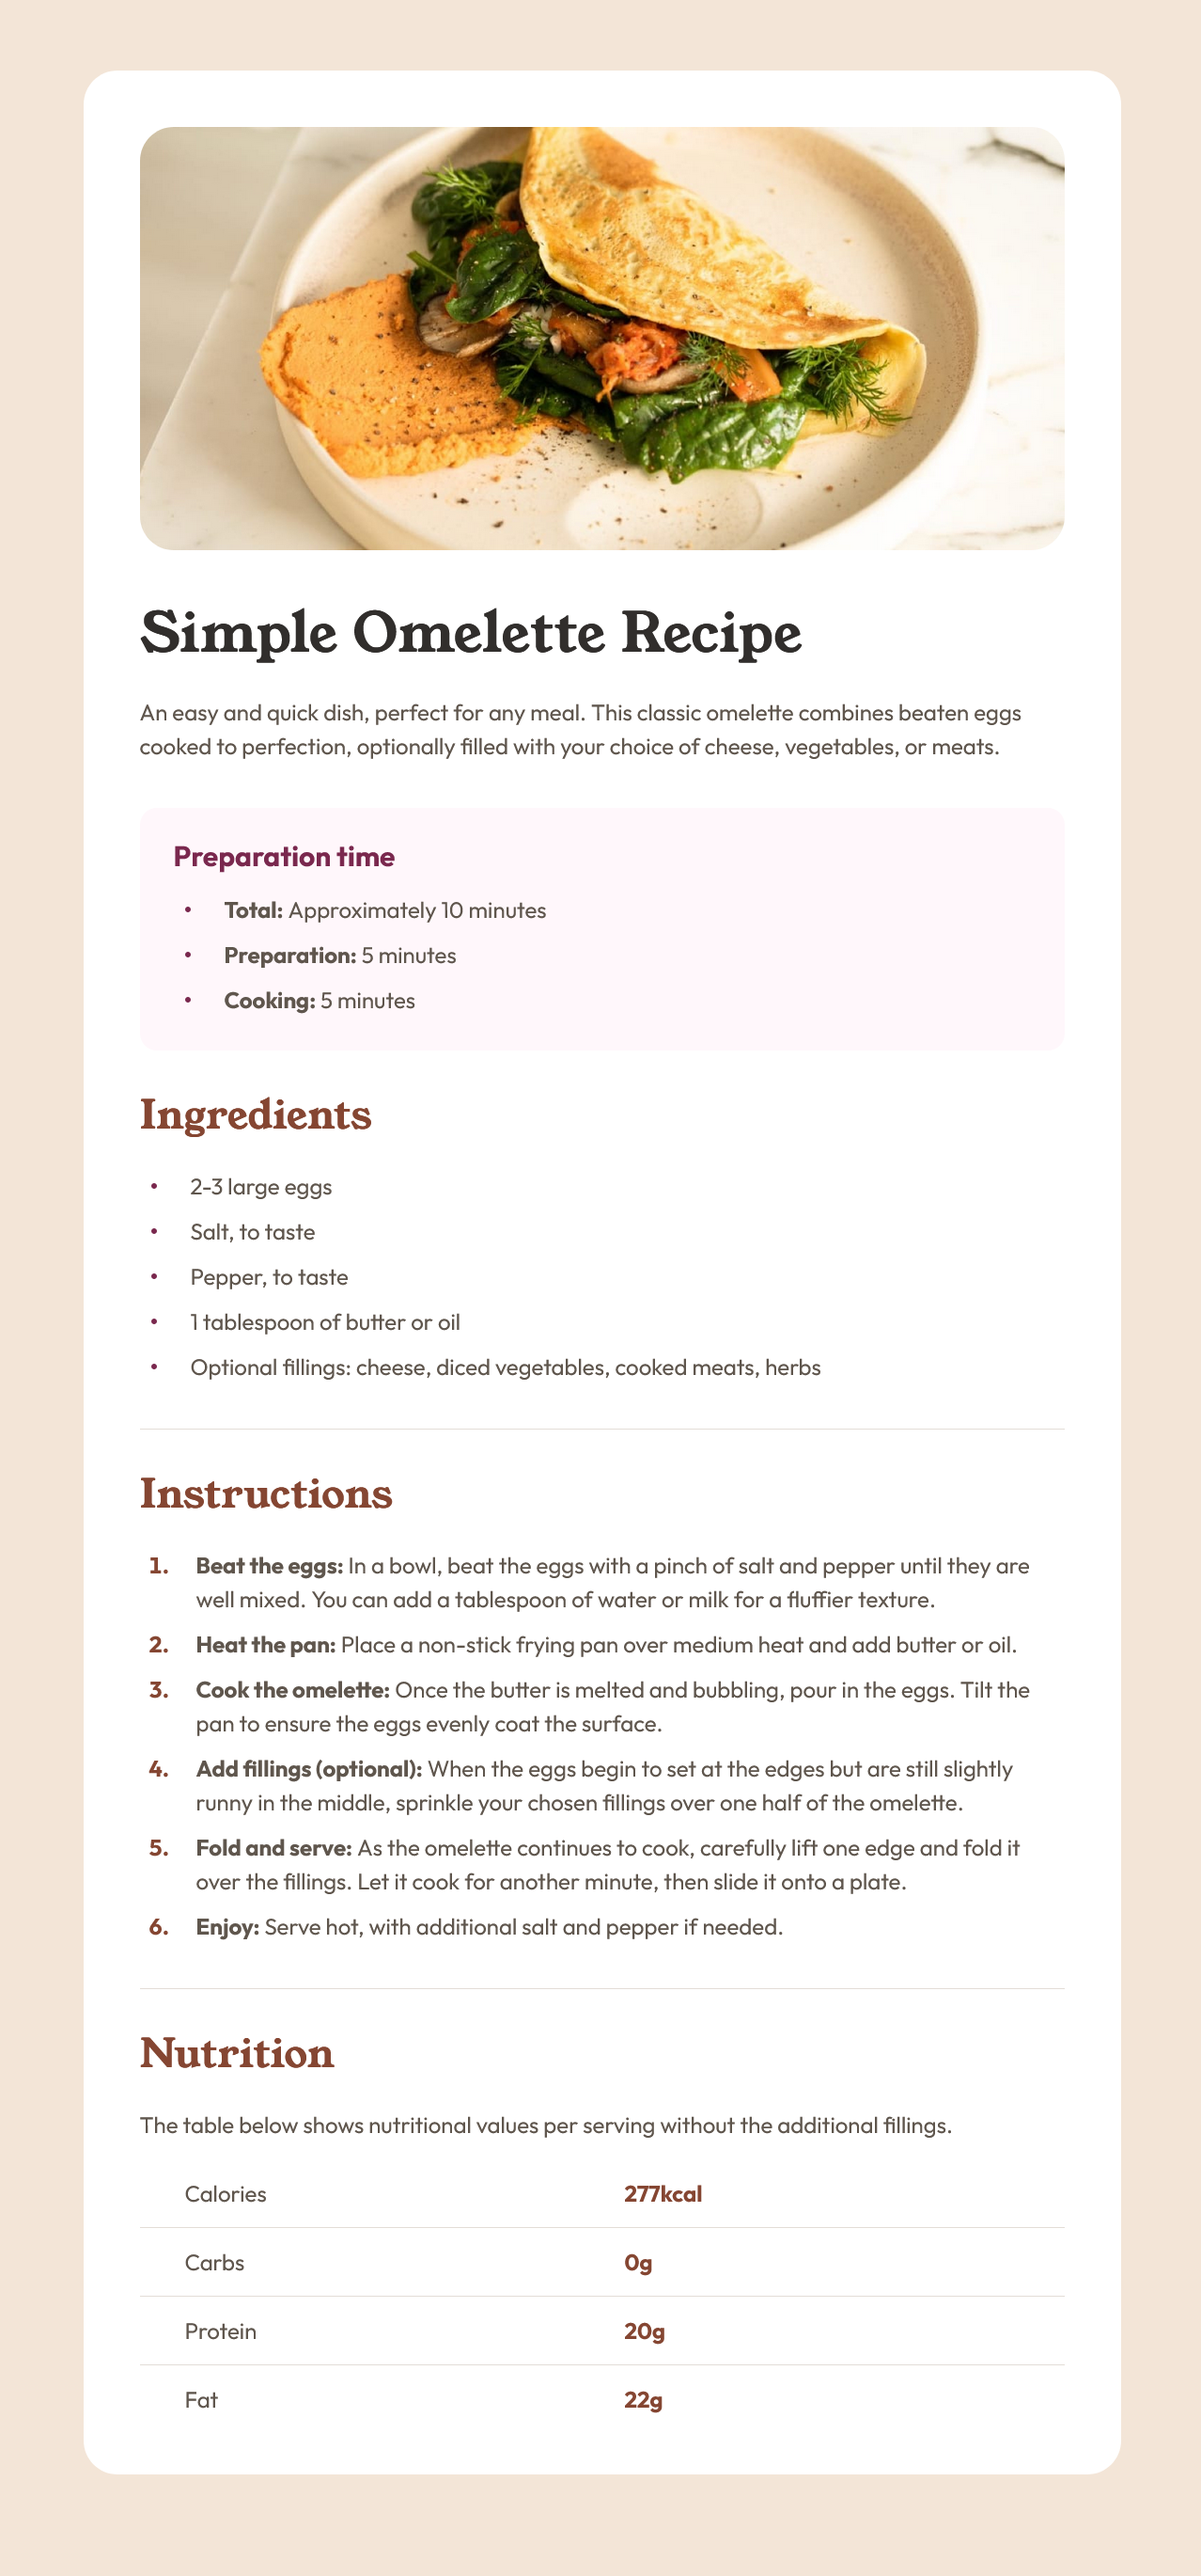
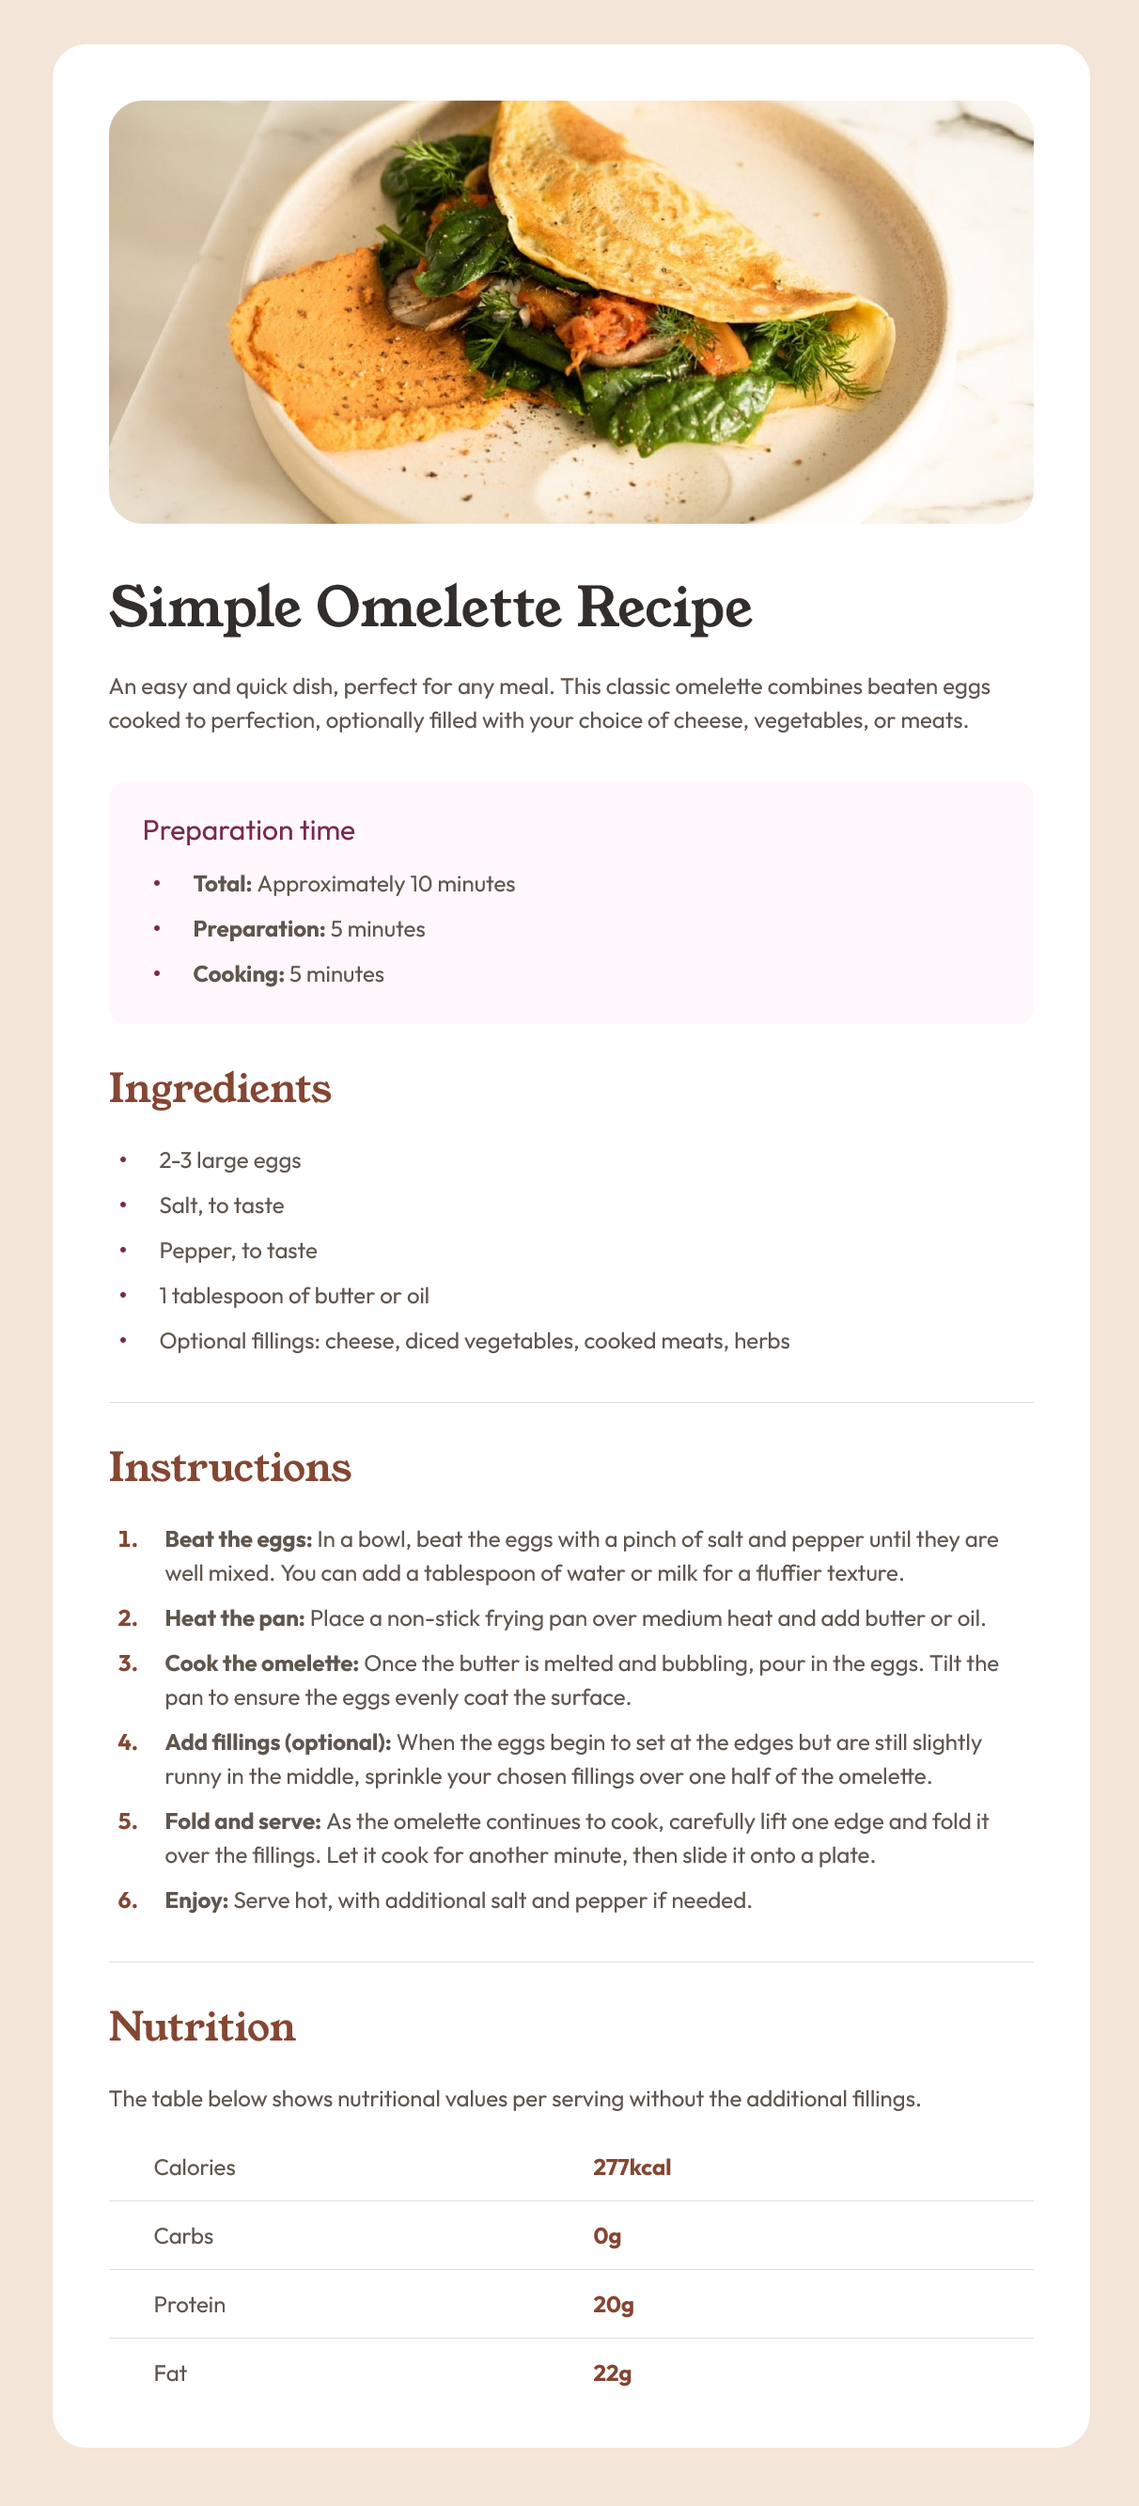
Update readme, adjust heading font weights

Changed region(s): [[0.0305, 0.0, 0.9769, 0.9966]]

diff --git a/styles.css b/styles.css
@@ -84,8 +84,8 @@ body {
   color: var(--stone-600);
 }
 
-h1, h2 {
-  font-weight: 500;
+h1, h2, h3 {
+  font-weight: 400;
 }
 
 .recipe-card {

diff --git a/README.md b/README.md
@@ -29,7 +29,7 @@ This challenge is focused on ensuring proper HTML structure including:
 
 ### Links
 
-- Solution URL: [FEM solution](https://your-solution-url.com)
+- Solution URL: [FEM solution](https://www.frontendmentor.io/solutions/responsive-recipe-card-component-using-flexbox-and-css-grid-lL8gifcvBV)
 - Live Site URL: [live site](https://recipe-page-ruddy-pi.vercel.app/)
 
 ## My process
